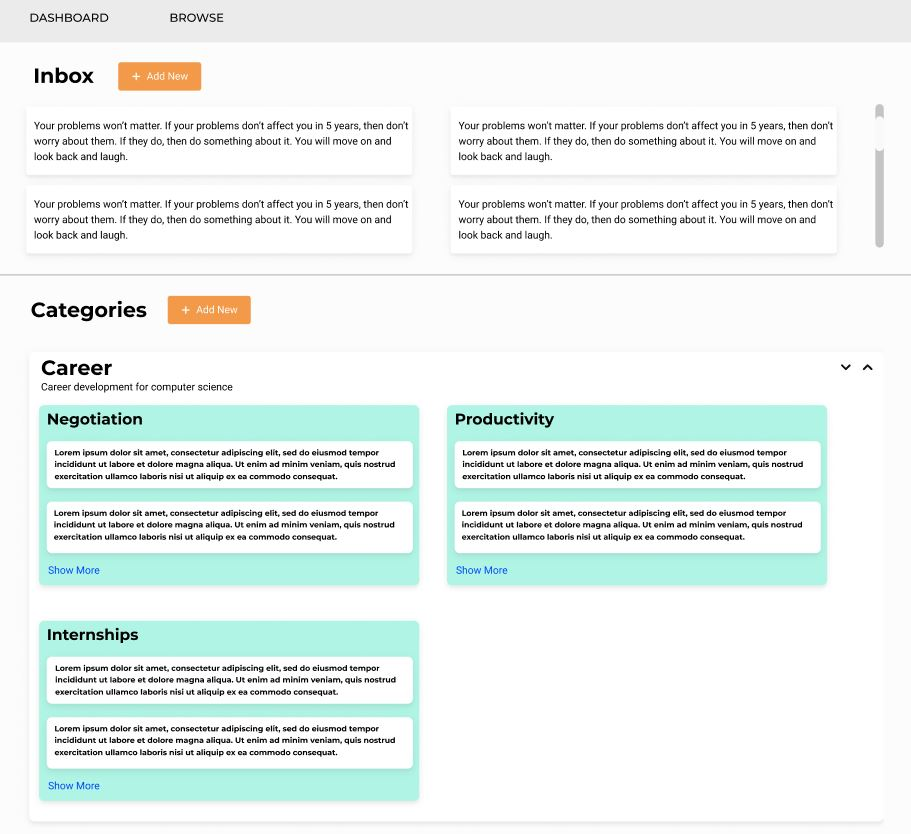
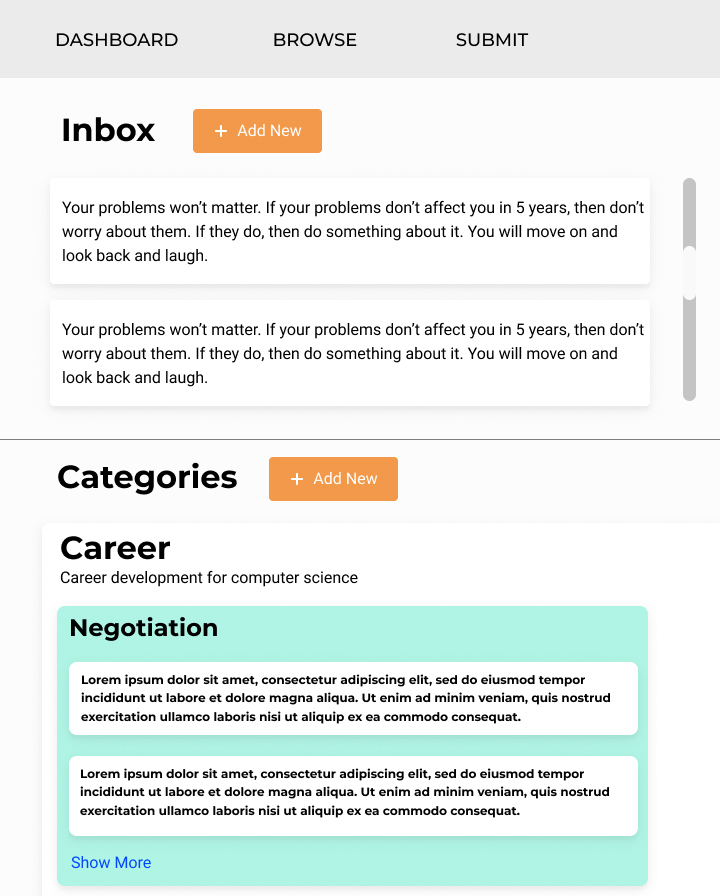
Add images to LandingPage, add layout to DashboardPage

diff --git a/app/src/components/Header/Header.js b/app/src/components/Header/Header.js
@@ -2,20 +2,62 @@ import React from "react"
 import Typography from "@material-ui/core/Typography"
 import Grid from "@material-ui/core/Grid"
 import { Link } from "react-router-dom"
+import { slide as Menu } from "react-burger-menu"
+import Toggle from "react-toggle"
+import useDarkMode from "use-dark-mode"
+
 
 const Header = () => {
+    const darkMode = useDarkMode(false)
+
     return (
-        <header style={{ backgroundColor: "#434343", margin: "0" }}>
-            <Grid container direction="row" alignItems="center">
-                <Typography variant="h4" justify="left" style={{ marginLeft: "5vw", paddingTop: "1vh", paddingBottom: "1vh", color: "white" }}>
-                    Advice Tracker
-                </Typography>
-                <Grid item style={{ marginLeft: "50vw" }}>
-                    <Link to="/profile" style={{ margin: "0 0 0 5vw", textDecoration: "none", color: "white" }}>
-                        <Typography variant="button">Profile</Typography>
+        <header id="header" style={{ margin: "0" }}>
+            <Grid container direction="row" alignItems="center" style={{ height: "60px", alignContent: "center" }}>
+                <Grid item className="landing-logo" style={{ marginLeft: "14vw", marginTop: "1vh" }}>
+                    <a href="/" >
+                        <img alt="logo" src={darkMode.value ? "./AdviceLogoLight.png": "./AdviceLogo.png"} />
+                    </a>
+                </Grid>
+
+                <Grid item style={{ marginLeft: "auto", marginRight: "5vw" }}>
+                    <Grid item className="toggle-grid" md={6}>
+                        <Toggle
+                            className="react-toggle-small"
+                            defaultChecked={darkMode.value}
+                            onChange={darkMode.toggle}
+                            icons={{
+                                checked: <img style={{ pointerEvents: "none" }} width="16" height="14" alt="moon" aria-hidden src={"./moon.png"} />,
+                                unchecked: <img style={{ pointerEvents: "none" }} width="16" height="14" alt="sun" aria-hidden src={"./sun.png"} />,
+                            }}
+                        />
+                    </Grid>
+                    <Grid item md={6}>
+                        <Menu right noOverlay>
+                            <Link to="/browse" style={{ marginBottom: "2vw", textDecoration: "none", color: "white" }}>
+                                <Typography variant="button">Profile</Typography>
+                            </Link>
+                        </Menu>
+                    </Grid>
+                </Grid>
+
+                <Grid item className="navbar-grid" style={{ marginLeft: "auto", textAlign: "center", marginRight: "15vw" }}>
+                    <Toggle
+                        defaultChecked={darkMode.value}
+                        onChange={darkMode.toggle}
+                        icons={{
+                            checked: <img style={{ pointerEvents: "none" }} width="16" height="14" alt="moon" aria-hidden src={"./moon.png"} />,
+                            unchecked: <img style={{ pointerEvents: "none" }} width="16" height="14" alt="sun" aria-hidden src={"./sun.png"} />,
+                        }}
+                    />
+                    <Link to="/browse" className="landing-header-link" style={{ margin: "0 0 0 5vw", textDecoration: "none" }}>
+                        <Typography variant="button" style={{ textDecoration: "none" }}>
+                            Profile
+                        </Typography>
                     </Link>
-                    <Link to="/" style={{ margin: "0 5vw 0 5vw", textDecoration: "none", color: "white" }}>
-                        <Typography variant="button">Logout</Typography>
+                    <Link to="/browse" className="landing-header-link" style={{ margin: "0 0 0 5vw", textDecoration: "none" }}>
+                        <Typography variant="button" style={{ textDecoration: "none" }}>
+                            Logout
+                        </Typography>
                     </Link>
                 </Grid>
             </Grid>

diff --git a/app/src/containers/LoginPage/LoginPage.js b/app/src/containers/LoginPage/LoginPage.js
@@ -14,14 +14,14 @@ const LoginPage = (props) => {
         <>
             <LandingHeader />
             <section>
-                <Grid container style={{ height: "715px" }}>
+                <Grid container style={{ height: "750px" }}>
                     <Grid
                         item
                         className="login-demo-grid"
                         xl={5}
                         md={5}
                         style={{
-                            height: "715px",
+                            height: "750px",
                             backgroundColor: "#EDEDED",
                             borderTop: "1px solid black",
                             borderBottom: "1px solid black",
@@ -29,7 +29,7 @@ const LoginPage = (props) => {
                             textAlign: "center",
                         }}
                     >
-                        <img alt="login-demo" src="./login-sample.JPG" style={{ height: "550px", width: "500px", margin: "35px 15px 35px 15px" }} />
+                        <img alt="login-demo" src="./login-sample.JPG" style={{ height: "550px", width: "500px", margin: "35px 15px 35px 15px", borderRadius: "15px"}} />
                     </Grid>
                     <Grid
                         item
@@ -38,9 +38,19 @@ const LoginPage = (props) => {
                         md={7}
                         sm={12}
                         xs={12}
-                        style={{ height: "715px", backgroundColor: "#FCFCFC", borderTop: "1px solid black", borderBottom: "1px solid black", padding: "auto",}}
+                        style={{
+                            height: "750px",
+                            backgroundColor: "#FCFCFC",
+                            borderTop: "1px solid black",
+                            borderBottom: "1px solid black",
+                            padding: "auto",
+                        }}
                     >
-                        <Paper className="login-paper" elevation={3} style={{ margin: "70px 350px 50px 150px", position: "absolute", width: "460px", height: "500px" }}>
+                        <Paper
+                            className="login-paper"
+                            elevation={3}
+                            style={{ margin: "70px 350px 50px 150px", position: "absolute", width: "460px", height: "500px" }}
+                        >
                             <div style={{ width: "460px, height: 200px" }}>
                                 <Button style={{ marginTop: "50px" }}>Registration</Button>
                                 <Button style={{ marginTop: "50px" }}>Sign-in</Button>
@@ -82,16 +92,3 @@ const LoginPage = (props) => {
 }
 
 export default LoginPage
-
-/**
- * <div style={{ position: "relative", width: "460px", height: "340px", backgroundColor: "#FEFEFE" }}>
-                                <Grid container direction="column" style={{ padding: "40px" }}>
-                                    <TextField id="outlined-basic" label="Username" variant="outlined" style={{ marginBottom: "15px" }} />
-                                    <TextField id="outlined-basic" label="Email" variant="outlined" style={{ marginBottom: "15px" }} />
-                                    <TextField id="outlined-basic" label="Password" variant="outlined" style={{ marginBottom: "15px" }} />
-                                    <Button style={{ width: "380px", height: "50px", backgroundColor: "#F2994A", color: "#FFFFFF" }} href="/login">
-                                        Register
-                                    </Button>
-                                </Grid>
-                            </div>
- */

diff --git a/app/src/components/LandingPage/BodyB.js b/app/src/components/LandingPage/BodyB.js
@@ -1,15 +1,21 @@
 import React from "react"
-import { Grid, Typography } from "@material-ui/core"
+import { Grid, Typography, Grow } from "@material-ui/core"
 
 const BodyB = () => {
     return (
-        <Grid container>
-            <Grid className="landing-bodyb-demo" item md={6} xs={12}>
-                <img alt="demo" style={{ height: "500px", width: "450px", padding: "0px 10vw 100px 10vw" }} src="./login-sample.JPG"></img>
+        <Grid container style={{ marginTop: "5vh", marginBottom: "10vh" }}>
+            <Grid className="landing-bodyb-demo" item md={6} xs={12} style={{ textAlign: "center" }}>
+                <Grow in={true} timeout={1750}>
+                    <img
+                        alt="demo"
+                        style={{ height: "450px", width: "550px", margin: "auto", marginLeft: "2vw", borderRadius: "15px" }}
+                        src="./login-sample3.png"
+                    />
+                </Grow>
             </Grid>
 
             <Grid item className="landing-bodyb" md={6} xs={12} style={{ height: "auto", display: "block", width: "100vw", textAlign: "center" }}>
-                <Grid item className="landing-bodyb" style={{ width: "35vw", margin: "0 auto", marginRight: "15vw", display: "inline-block" }}>
+                <Grid item className="landing-bodyb" style={{ width: "35vw", margin: "auto", marginRight: "10vw", display: "inline-block" }}>
                     <Typography className="landing-bodyb-h4" variant="h4" align="right">
                         Discover awesome advice on the way
                     </Typography>

diff --git a/app/src/components/LandingHeader/LandingHeader.js b/app/src/components/LandingHeader/LandingHeader.js
@@ -9,18 +9,15 @@ import Toggle from "react-toggle"
 import useDarkMode from "use-dark-mode"
 
 const Header = () => {
-    const darkMode = useDarkMode(false)
+    const darkMode = useDarkMode(true)
 
     return (
         <header id="header" style={{ margin: "0" }}>
             <Grid container direction="row" alignItems="center" style={{ height: "60px", alignContent: "center" }}>
-                <Grid className="landing-header-title" item style={{ marginLeft: "14vw", marginTop: "10px" }}>
-                    <img alt="logo" src="Logo.svg" x="50" y="18" height="40" width="40" />
-                </Grid>
-                <Grid className="landing-header-title" item style={{ marginRight: "auto", marginTop: "10px"}}>
-                    <Typography variant="h4" justify="left" style={{ marginTop: "0vh", marginBottom: "1vh", marginLeft: "0.5vw" }}>
-                        Advice Tracker
-                    </Typography>
+                <Grid item className="landing-logo" style={{marginLeft: "14vw", marginTop:"1vh"}}>
+                    <a href="/">
+                        <img alt="logo" src={darkMode.value ? "./AdviceLogoLight.png": "./AdviceLogo.png"}/>
+                    </a>
                 </Grid>
 
                 <Grid item style={{ marginLeft: "auto", marginRight: "5vw" }}>

diff --git a/app/src/components/LandingPage/Hero.js b/app/src/components/LandingPage/Hero.js
@@ -2,9 +2,11 @@ import React from "react"
 import Grid from "@material-ui/core/Grid"
 import { Typography } from "@material-ui/core"
 import RegisterButton from "./RegisterButton"
+import Grow from "@material-ui/core/Grow"
 import LoginButton from "./LoginButton"
 
 const Hero = () => {
+
     return (
         <Grid container>
             <Grid className="landing-hero-wrap" item md={6} xs={12} style={{ height: "auto", display: "block", width: "100vw", textAlign: "left" }}>
@@ -26,7 +28,13 @@ const Hero = () => {
             </Grid>
 
             <Grid className="landing-demo" item md={6} xs={12} style={{ textAlign: "center", margin: "auto" }}>
-                <img alt="demo" style={{ height: "500px", width: "450px", margin: "100px 100px 100px 100px" }} src="./login-sample.JPG"></img>
+                <Grow in={true} timeout={1250}>
+                    <img
+                    alt="demo"
+                    style={{ height: "500px", width: "450px", margin: "100px 100px 100px 100px", borderRadius: "15px" }}
+                    src="./login-sample.JPG"
+                />
+                </Grow>
             </Grid>
         </Grid>
     )

diff --git a/app/src/components/Footer/Footer.js b/app/src/components/Footer/Footer.js
@@ -1,23 +1,27 @@
 import React from "react"
 import { Typography } from "@material-ui/core"
+import useDarkMode from "use-dark-mode"
 
 export const Footer = () => {
+    const darkMode = useDarkMode()
+
     return (
         <footer
             style={{
-                backgroundColor: "#FFFFFF",
                 margin: "0",
                 width: "100vw",
                 right: "0",
-                height: "190px",
+                height: "auto",
                 textAlign: "center",
                 boxSizing: "border-box",
-                display: "inline",
+                display: "inline-block",
             }}
         >
-            <Typography variant="h5" justify="center" style={{ paddingTop: "60px", paddingBottom: "15px" }}>
-                Advice Tracker
-            </Typography>
+            <div style={{marginTop: "5vh"}}>
+                <a href="/">
+                    <img alt="logo" src={darkMode.value ? "./AdviceLogoLight.png" : "./AdviceLogo.png"} />
+                </a>
+            </div>
 
             <hr style={{ width: "auto" }} />
 

diff --git a/app/src/components/LandingPage/BodyA.js b/app/src/components/LandingPage/BodyA.js
@@ -1,5 +1,5 @@
 import React from "react"
-import { Grid, Typography } from "@material-ui/core"
+import { Grid, Typography, Grow } from "@material-ui/core"
 
 const BodyA = () => {
     return (
@@ -30,8 +30,14 @@ const BodyA = () => {
                 </Grid>
             </Grid>
 
-            <Grid item md={6} xs={12} className="landing-bodya-demo">
-                <img alt="demo" style={{ height: "500px", width: "450px", margin: "0px 10vw 100px 10vw" }} src="./login-sample.JPG"></img>
+            <Grid item md={6} xs={12} className="landing-bodya-demo" style={{ textAlign: "center" }}>
+                <Grow in={true} timeout={1750}>
+                    <img
+                        alt="demo"
+                        style={{ height: "575px", width: "475px", margin: "auto", marginRight: "3vw", borderRadius: "15px" }}
+                        src="./login-sample2.png"
+                    />
+                </Grow>
             </Grid>
         </Grid>
     )

diff --git a/app/src/containers/FriendsPage/FriendsPage.js b/app/src/containers/FriendsPage/FriendsPage.js
@@ -11,6 +11,7 @@ import FriendDisplay from "./FriendDisplay/FriendDisplay"
 import Button from "@material-ui/core/Button"
 import { Typography } from "@material-ui/core"
 import { v4 as uuidv4 } from "uuid"
+import Footer from "../../components/Footer/Footer"
 
 const FriendsPage = (props) => {
     const { users, getUsers, createUser } = props
@@ -50,6 +51,7 @@ const FriendsPage = (props) => {
                     <FriendDisplay key={person.id} person={person} />
                 ))}
             </Grid>
+            <Footer />
         </Fragment>
     )
 }

diff --git a/app/src/containers/DashboardPage/DashboardPage.js b/app/src/containers/DashboardPage/DashboardPage.js
@@ -2,6 +2,7 @@ import React, { Fragment } from "react"
 import Grid from "@material-ui/core/Grid"
 import Header from "../../components/Header/Header"
 import Navbar from "../../components/Navbar/Navbar"
+import Footer from "../../components/Footer/Footer"
 
 const DashboardPage = (props) => {
     return (
@@ -9,6 +10,7 @@ const DashboardPage = (props) => {
             <Header />
             <Navbar />
             <Grid container style={{ margin: "1vw" }} justify="center" direction="column"></Grid>
+            <Footer />
         </Fragment>
     )
 }

diff --git a/app/src/app.css b/app/src/app.css
@@ -4,7 +4,7 @@ body {
     padding: 0;
     position: relative;
     background-color: #fcfcfc;
-    width: 99vw !important;
+    width: 100vw !important;
     overflow-x: hidden;
 }
 
@@ -360,7 +360,7 @@ Note: Beware of modifying this element as it can break the animations - you shou
     .signupcall-btn {
         text-align: center !important;
     }
-    .landing-header-title {
+    .landing-logo {
         margin-top: 30px !important;
         margin-left: 5px !important;
     }
